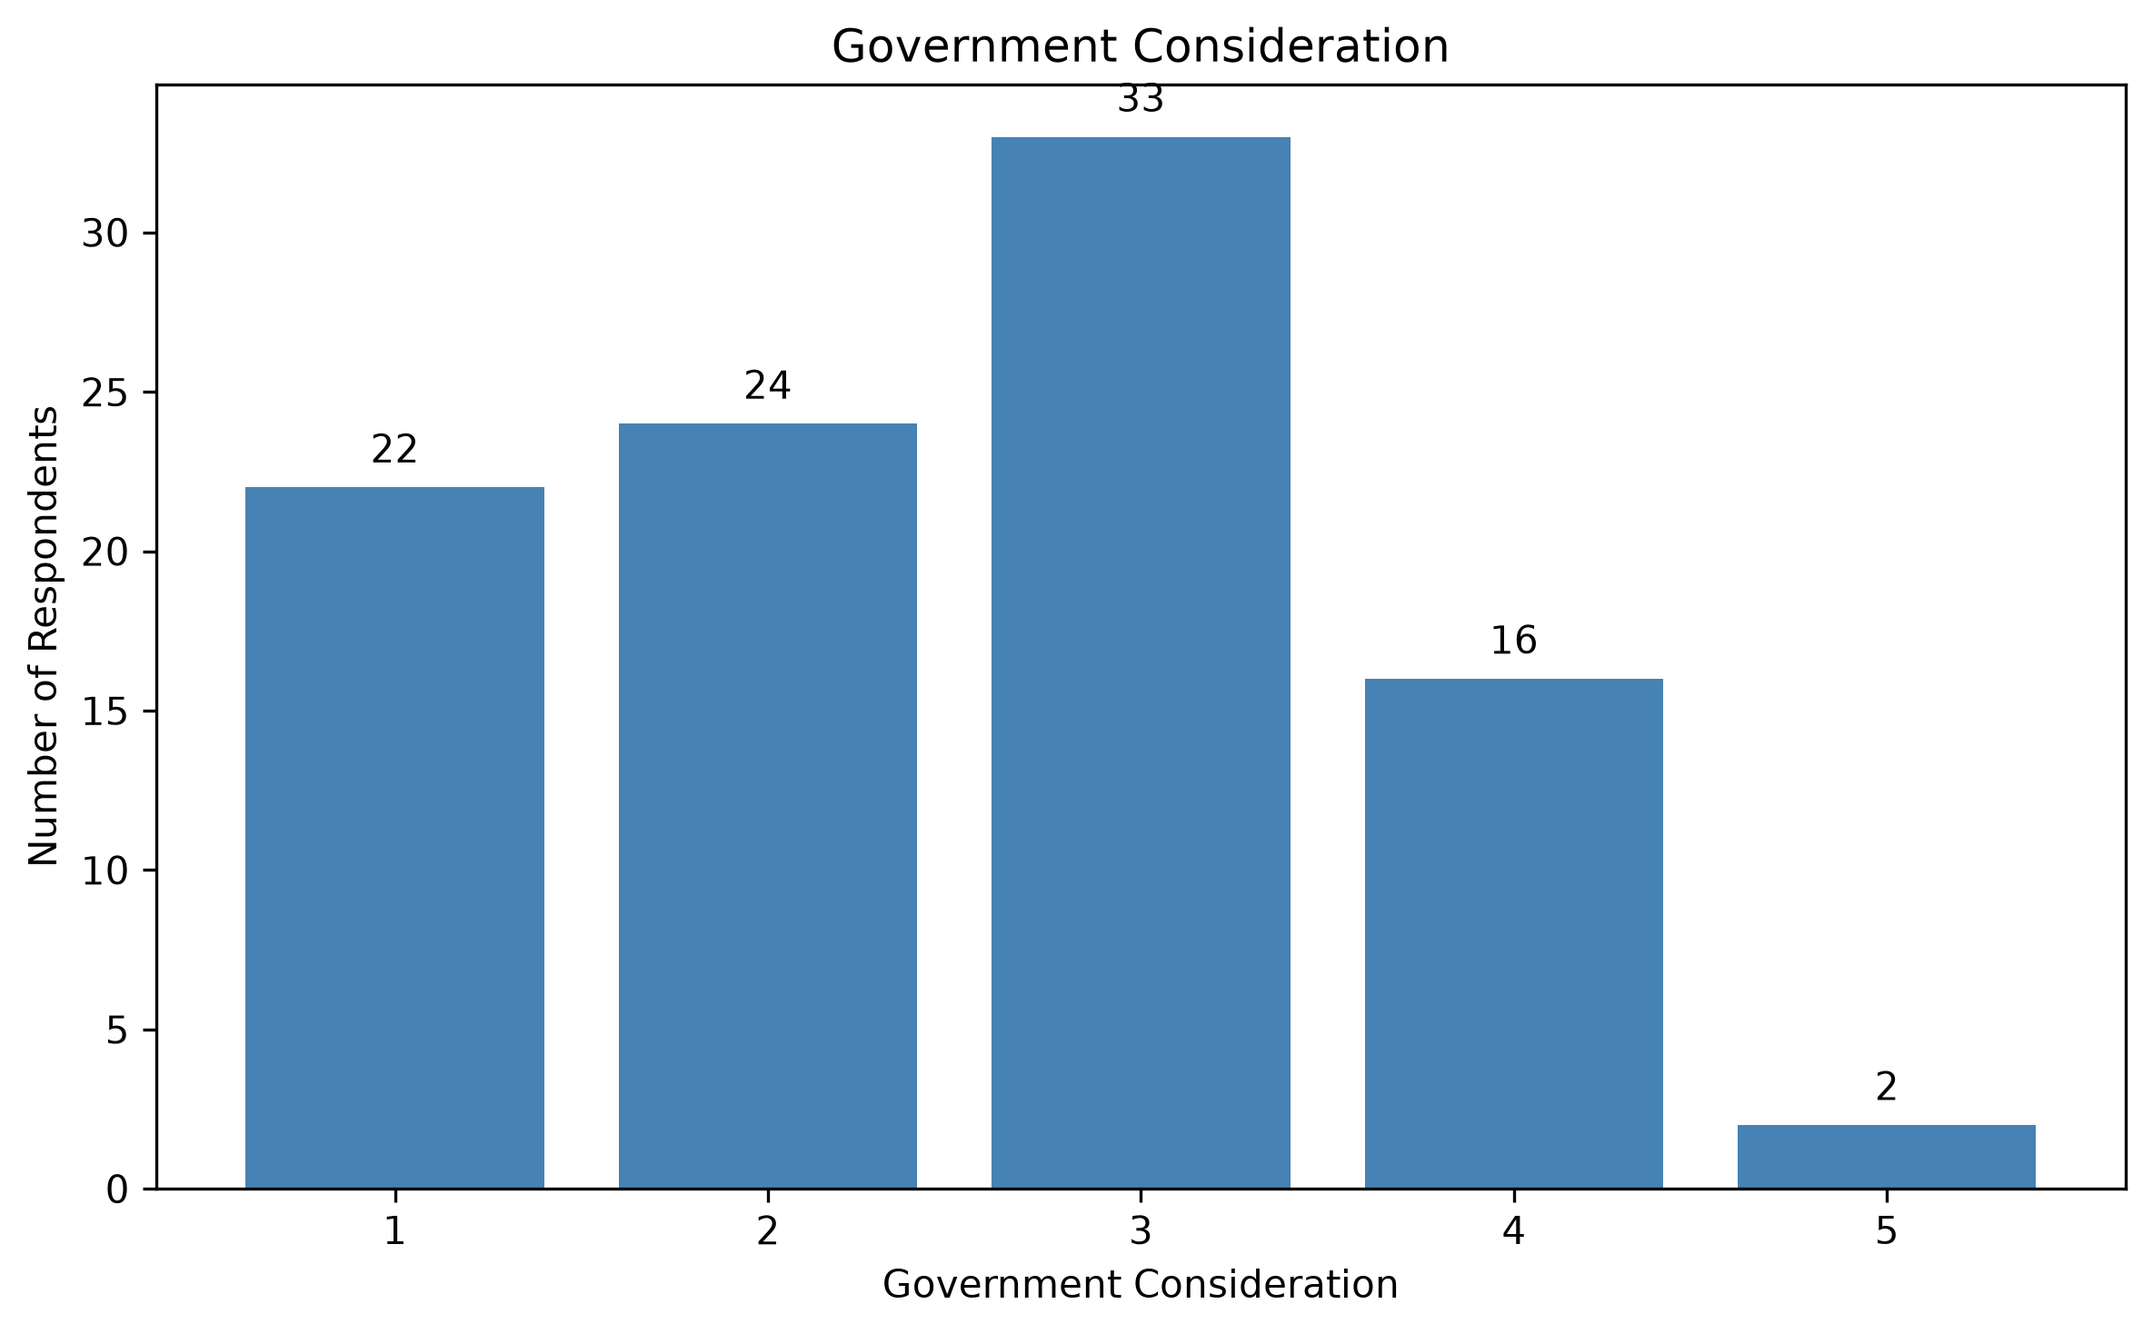
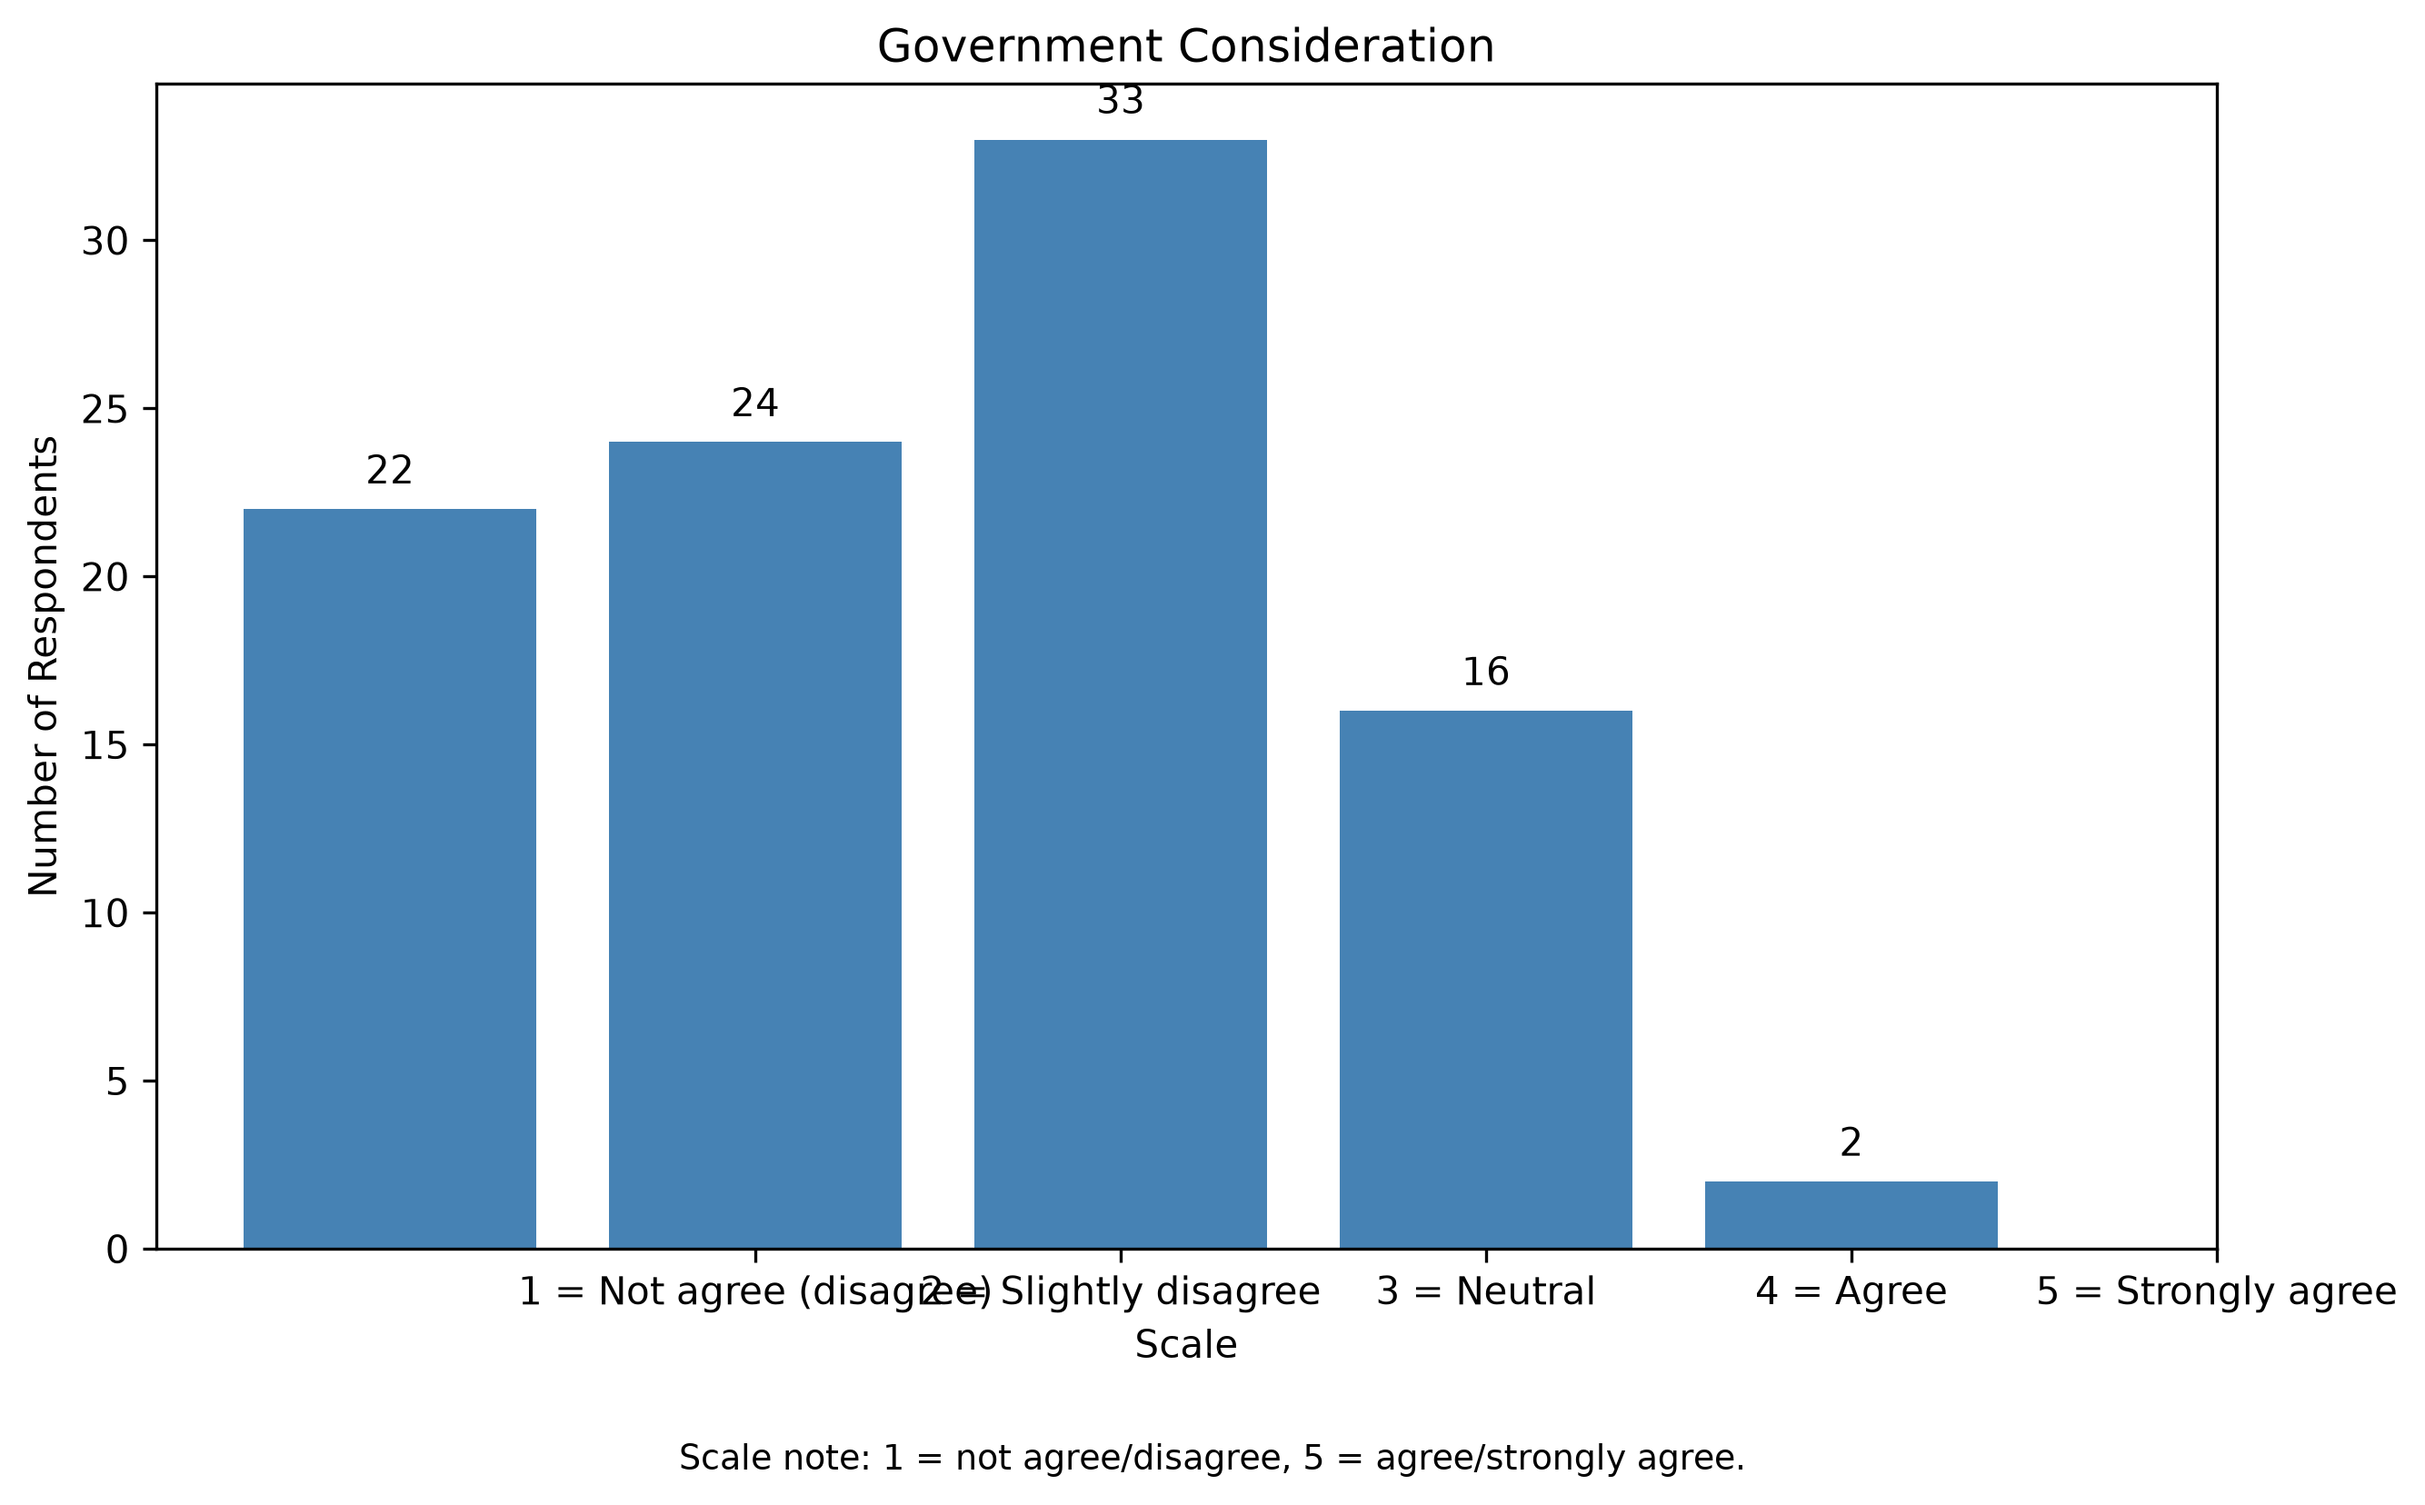
Clarify government consideration scale labels

Changed region(s): [[0.0, 0.0, 0.9996, 0.9196], [0.2811, 0.9503, 0.7184, 0.9809]]

diff --git a/generate_government_consideration_chart.py b/generate_government_consideration_chart.py
@@ -21,11 +21,24 @@ def main():
 
     PLOTS_DIR.mkdir(exist_ok=True)
 
-    plt.figure(figsize=(8, 5))
+    scale_labels = {
+        1: "1 = Not agree (disagree)",
+        2: "2 = Slightly disagree",
+        3: "3 = Neutral",
+        4: "4 = Agree",
+        5: "5 = Strongly agree",
+    }
+
+    plt.figure(figsize=(9, 5.5))
     bars = plt.bar(counts.index.astype(str), counts.values, color="steelblue")
     plt.title("Government Consideration")
-    plt.xlabel("Government Consideration")
+    plt.xlabel("Scale")
     plt.ylabel("Number of Respondents")
+    plt.xticks(
+        ticks=sorted(counts.index),
+        labels=[scale_labels.get(i, str(i)) for i in sorted(counts.index)],
+        rotation=0,
+    )
 
     for bar, value in zip(bars, counts.values):
         plt.text(
@@ -36,7 +49,15 @@ def main():
             va="bottom",
         )
 
-    plt.tight_layout()
+    plt.figtext(
+        0.5,
+        0.01,
+        "Scale note: 1 = not agree/disagree, 5 = agree/strongly agree.",
+        ha="center",
+        fontsize=9,
+    )
+
+    plt.tight_layout(rect=(0, 0.05, 1, 1))
     plt.savefig(OUTPUT_PATH, dpi=300, bbox_inches="tight")
     plt.close()
 
